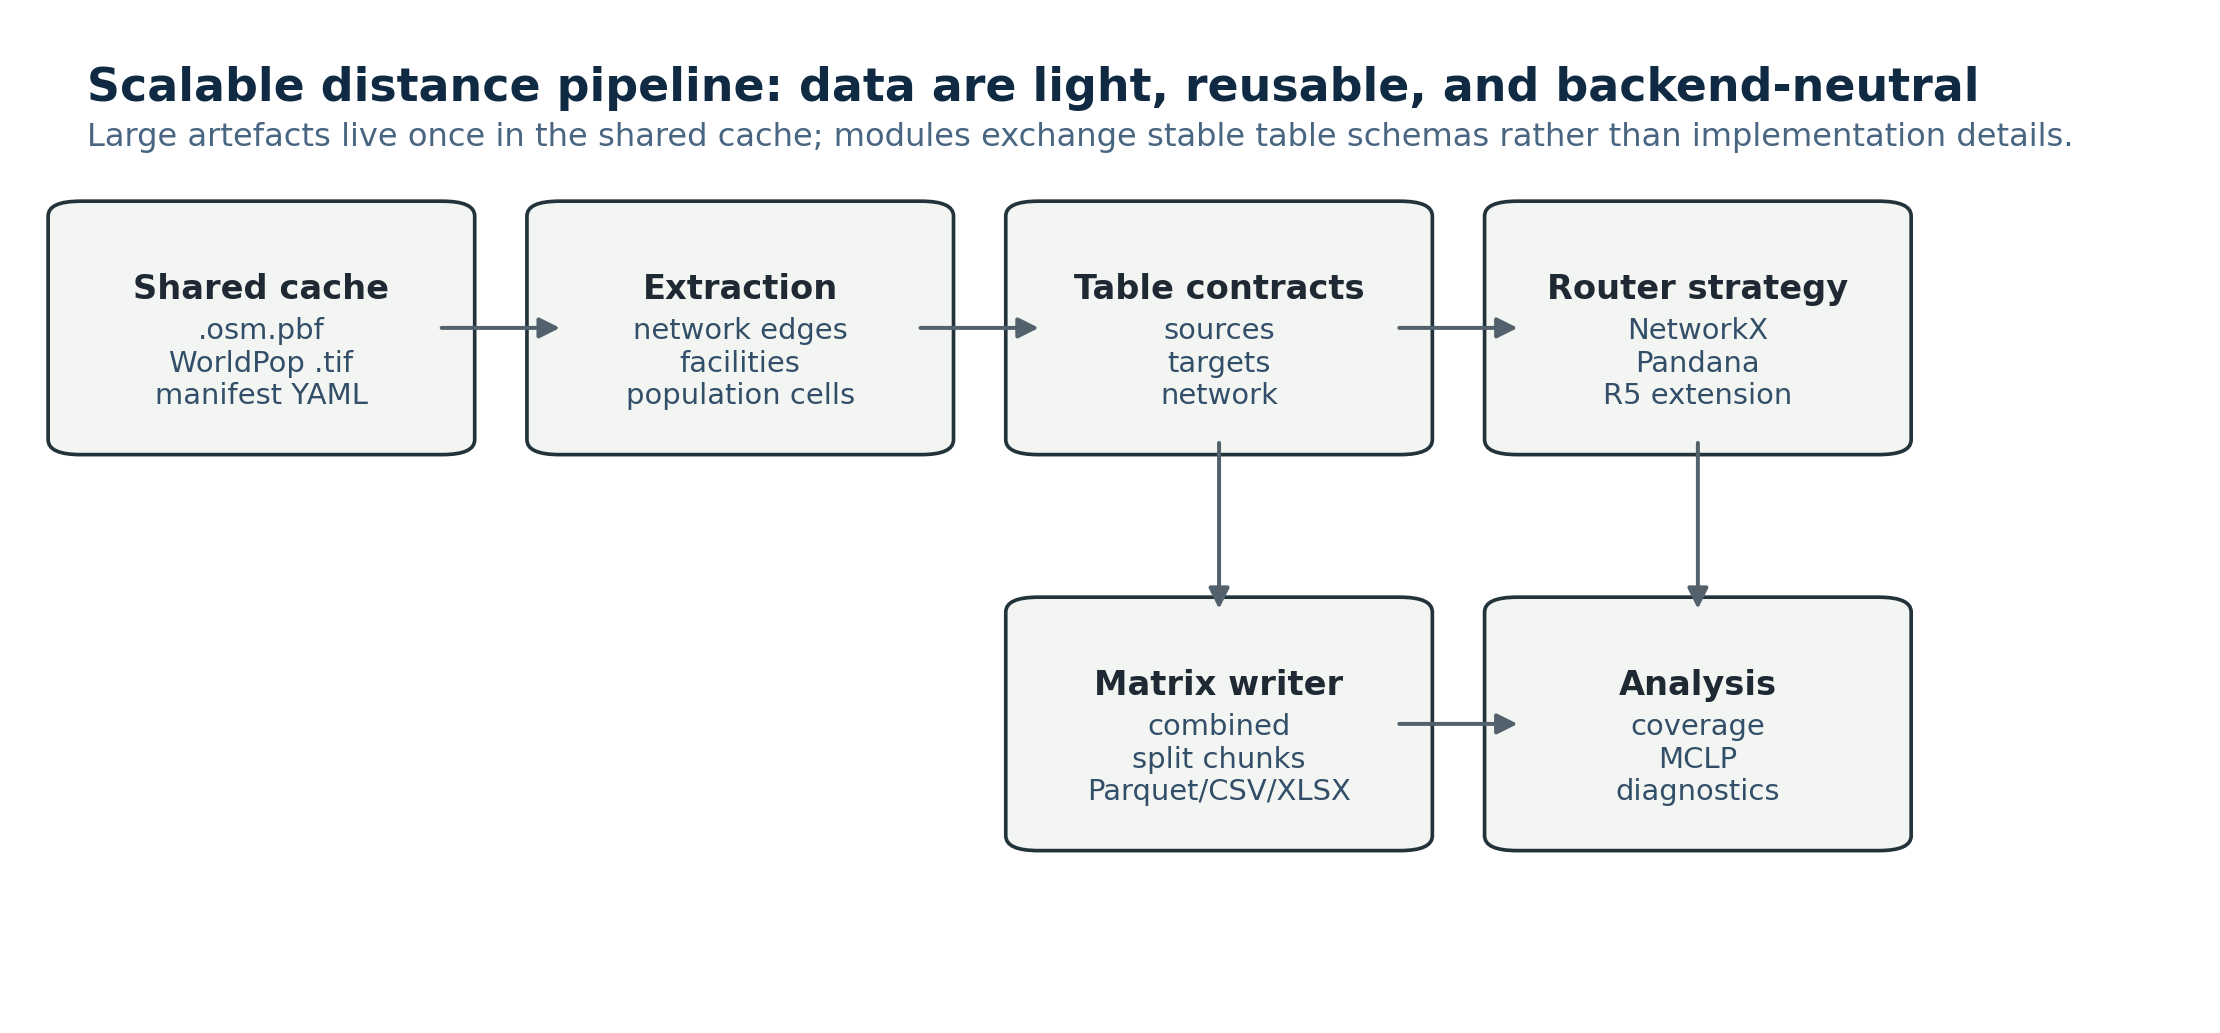
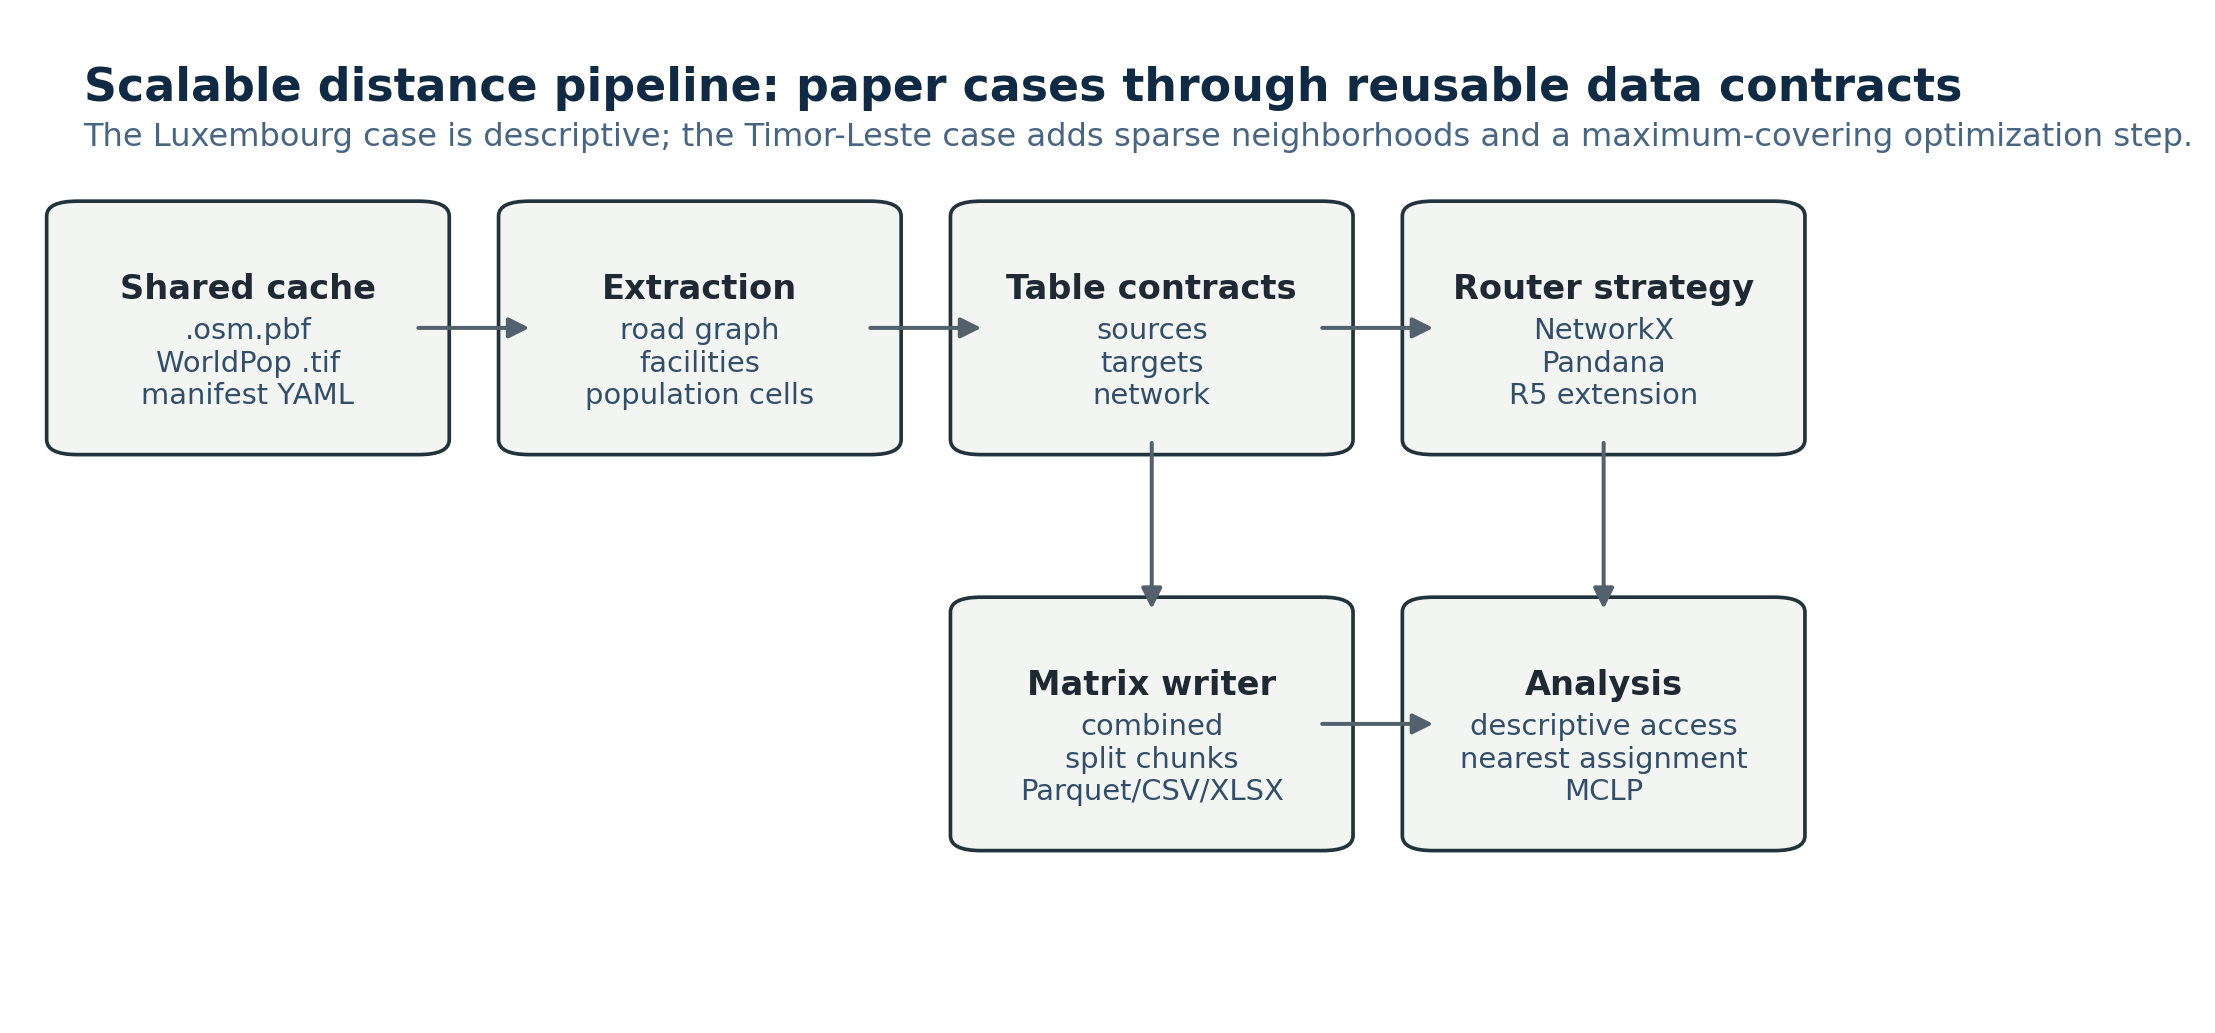
Replicate paper analyses in scalable case artifacts

diff --git a/Research-Sandbox/scalable_general_distances_per_country/notebooks/luxembourg_timor_leste_new_pipeline.tex b/Research-Sandbox/scalable_general_distances_per_country/notebooks/luxembourg_timor_leste_new_pipeline.tex
@@ -27,7 +27,10 @@ The companion notebook
 \texttt{luxembourg\_api\_illustration.ipynb} contains executable miniature
 versions of the cases.  Those examples are intentionally small enough to run on
 a fresh development machine, while the final notebook cells show the country
-scale API and CLI calls that use the shared cache.
+scale API and CLI calls that use the shared cache.  The notebook now mirrors
+the two analytical endpoints in the original paper: Luxembourg descriptive
+access tables and nearest-school assignments, and Timor-Leste maximum-covering
+neighborhoods plus a selected-facility optimization step.
 
 \section{Pipeline Architecture Used by Both Cases}
 
@@ -207,14 +210,22 @@ The population covered at threshold \(R\) is then
 where \(w_i\) is the represented population of target \(i\).  A target is counted
 only once per threshold even if several schools are reachable.  For school
 ranking, the same matrix can assign each covered target to its nearest school.
+The notebook therefore reproduces the paper's descriptive outputs in three
+steps: compute the sparse road-distance matrix, summarize covered represented
+population at 500 m and 1,000 m, and rank schools by the population assigned to
+their nearest school.  At country scale, these correspond to the paper's 394 OSM
+schools, 102,061 population targets, and 266,225 represented people within
+1,000 m.
 
 \begin{figure}[h]
 \centering
 \includegraphics[width=0.78\linewidth]{figures/luxembourg_network_sources_targets.png}
 \caption{Illustrative Luxembourg data objects used in the notebook: a small
-road network with edge lengths, two school source points, and three population
-target points.  The country-scale run uses the same object contracts after
-extracting OSM schools and WorldPop target cells.}
+road network with edge lengths, two school source points, three population
+target points, and schematic 500 m and 1,000 m radius guides.  The country-scale
+run uses the same object contracts after extracting OSM schools and WorldPop
+target cells; the radius guides are visual aids, while coverage is computed from
+network distances.}
 \label{fig:luxembourg-network}
 \end{figure}
 
@@ -289,14 +300,21 @@ z_i, y_j \in \{0, 1\}.
 Here \(y_j=1\) if source \(j\) is selected and \(z_i=1\) if population target
 \(i\) is covered.  In the paper-scale case, \(p=20\), the coverage radius is
 10 km, and both Gurobi and HiGHS reach the same covered population.
+The notebook reproduces this optimization path without requiring a solver by
+enumerating the small demonstration instance: it first derives \(N(i)\) from the
+10 km sparse matrix, then evaluates feasible source subsets, and finally reports
+the selected sources and covered population.  For the production case, the same
+neighborhood table is the direct input to a MILP solver such as HiGHS or Gurobi.
 
 \begin{figure}[h]
 \centering
 \includegraphics[width=0.78\linewidth]{figures/timor_leste_network_sources_targets.png}
 \caption{Illustrative Timor-Leste data objects used in the notebook: a road
 network with kilometre-scale edge lengths, health-related source locations,
-candidate sites, and weighted population demand.  The sparse matrix turns these
-objects into coverage neighborhoods for the maximum-covering model.}
+candidate sites, weighted population demand, and schematic 10 km coverage-radius
+guides.  The sparse matrix turns these objects into coverage neighborhoods for
+the maximum-covering model; as in the Luxembourg figure, the plotted radii are
+visual guides and the model uses network distances.}
 \label{fig:timor-leste-network}
 \end{figure}
 